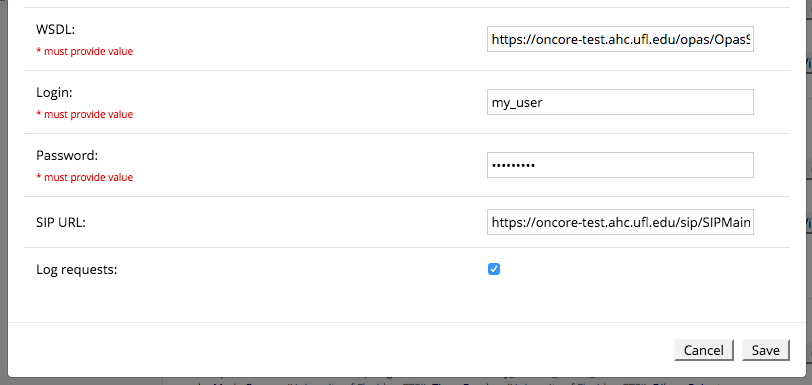
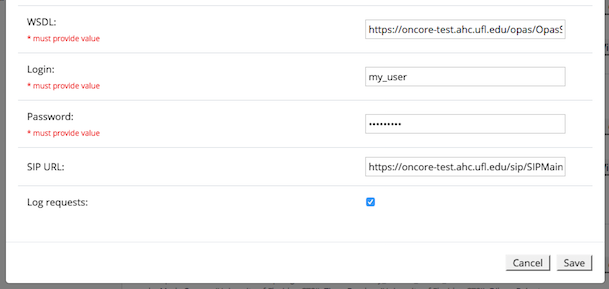
Update README for redcap_entity 2.1.0 and new features
Update imagery for redcap_entity 2.1.0.
Update instructions for redcap_entity 2.1.0.
Expand Project Level Configuration section to describe field mapping, event selection and enrollment statuses.
Move API notes to a new README-developer.
Reduce image sizes to 75% or normal.

diff --git a/README.md b/README.md
@@ -6,7 +6,7 @@ It allows REDCap project builders to associate a REDCap project with an OnCore p
 ## Prerequisites
 - REDCap >= 8.7.0
 - [PHP SOAP](http://php.net/manual/en/book.soap.php)
-- [REDCap Entity](https://github.com/ctsit/redcap_entity) >= 2.0.0
+- [REDCap Entity](https://github.com/ctsit/redcap_entity) >= 2.1.0
 
 ## Installation
 - Clone this repo into to `<redcap-root>/modules/redcap_oncore_client_v<version_number>`.
@@ -24,35 +24,25 @@ Go to **Control Center > External Modules**, click on OnCore Client's configure 
 
 ![Config form](img/config_form.png)
 
-## Associating a Project with a Protocol
+## Project level configuration
 
 If you already set a valid SIP URL, you may associate a project with a protocol.
 
 To do that, access **External Modules** section of your project, make sure OnCore Client is enabled, and then click on its configure button.
 
-![Protocol association](img/protocol_association.png)
+![Protocol association](img/project_level_configuration.png)
+
+On this page you _must_ select a protocol, check at least one enrollment status, the event to map on and the REDCap field name where the OnCore PrimaryIdentifier will be stored. You have the option of mapping other OnCore demographic fields to REDCap fields as well.
+
+Note that the REDCap fields must either be text fields or they must encode the data in *exactly* the same format as OnCore delivers the data. E.g., OnCode encode a gender of `female` as `F`. If you encode female as `Female` in your REDCap project, records with a gender of Female *will not sync*. They will quietly fail. We strongly recommend you configuring every field populated by the OnCore client as free text to prevent sync failures.
+
+Note also that the OnCore client only supports longitudinal projects at this time. The event name _must_ be specified.
+
 
 ## Sync OnCore subjects
 
 TODO : write this section
 
-
-## Using the API
-
-Here is an example of an API request to get protocol information (`getProtocol`).
-
-```php
-<?php
-
-$module = \ExternalModules\ExternalModules::getModuleInstance('redcap_oncore_client');
-$client = $module->getSoapClient();
-
-$result = $client->request('getProtocol', array('protocolNo' => 'OCR20002'));
-```
-
-For more complex requests (like `createProtocol` or `registerNewSubjectToProtocol`), check the `requests_examples.txt` file, which contains input examples of valid requests. For additional sample code see the testing code in [PBC's REDCap Module](https://github.com/pbchase/my_redcap_module/tree/redcap_oncore_client_test).
-
-This module does not contain details or definitions about OnCore API services. So for further details you may read the WSDL file or web page that was provided to you - use a Desktop client like [SoapUI](https://www.soapui.org/) for that.
 
 ### Supported services
 This module is still under construction so the supported operations so far are:
@@ -70,3 +60,7 @@ You may track your API calls by accessing the logs page. Go to **Control Center*
 ![Request](img/request_details.png)
 
 You may clear the logs by clicking on **Clean logs** button.
+
+## Developer notes
+
+If you want extend the OnCore client to support other OnCore data types, you might find the [Developer's Notes](README-developer.md) helpful.

diff --git a/README-developer.md b/README-developer.md
@@ -1,0 +1,25 @@
+# REDCap OnCore Client
+This is a REDCap external module that provides integration with OnCore.
+
+It allows REDCap project builders to associate a REDCap project with an OnCore protocol. It also allows developers to call the OnCore API via SOAP.
+
+This document provides some addtional notes that might be usefiul for software developers who want to extend the functionality of the OnCore client
+
+See the [README](README.md) for information on prereqs, installation, configuration and usage.
+
+## Using the API
+
+Here is an example of an API request to get protocol information (`getProtocol`).
+
+```php
+<?php
+
+$module = \ExternalModules\ExternalModules::getModuleInstance('redcap_oncore_client');
+$client = $module->getSoapClient();
+
+$result = $client->request('getProtocol', array('protocolNo' => 'OCR20002'));
+```
+
+For more complex requests (like `createProtocol` or `registerNewSubjectToProtocol`), check the `requests_examples.txt` file, which contains input examples of valid requests. For additional sample code see the testing code in [PBC's REDCap Module](https://github.com/pbchase/my_redcap_module/tree/redcap_oncore_client_test).
+
+This module does not contain details or definitions about OnCore API services. So for further details you may read the WSDL file or web page that was provided to you - use a Desktop client like [SoapUI](https://www.soapui.org/) for that.
